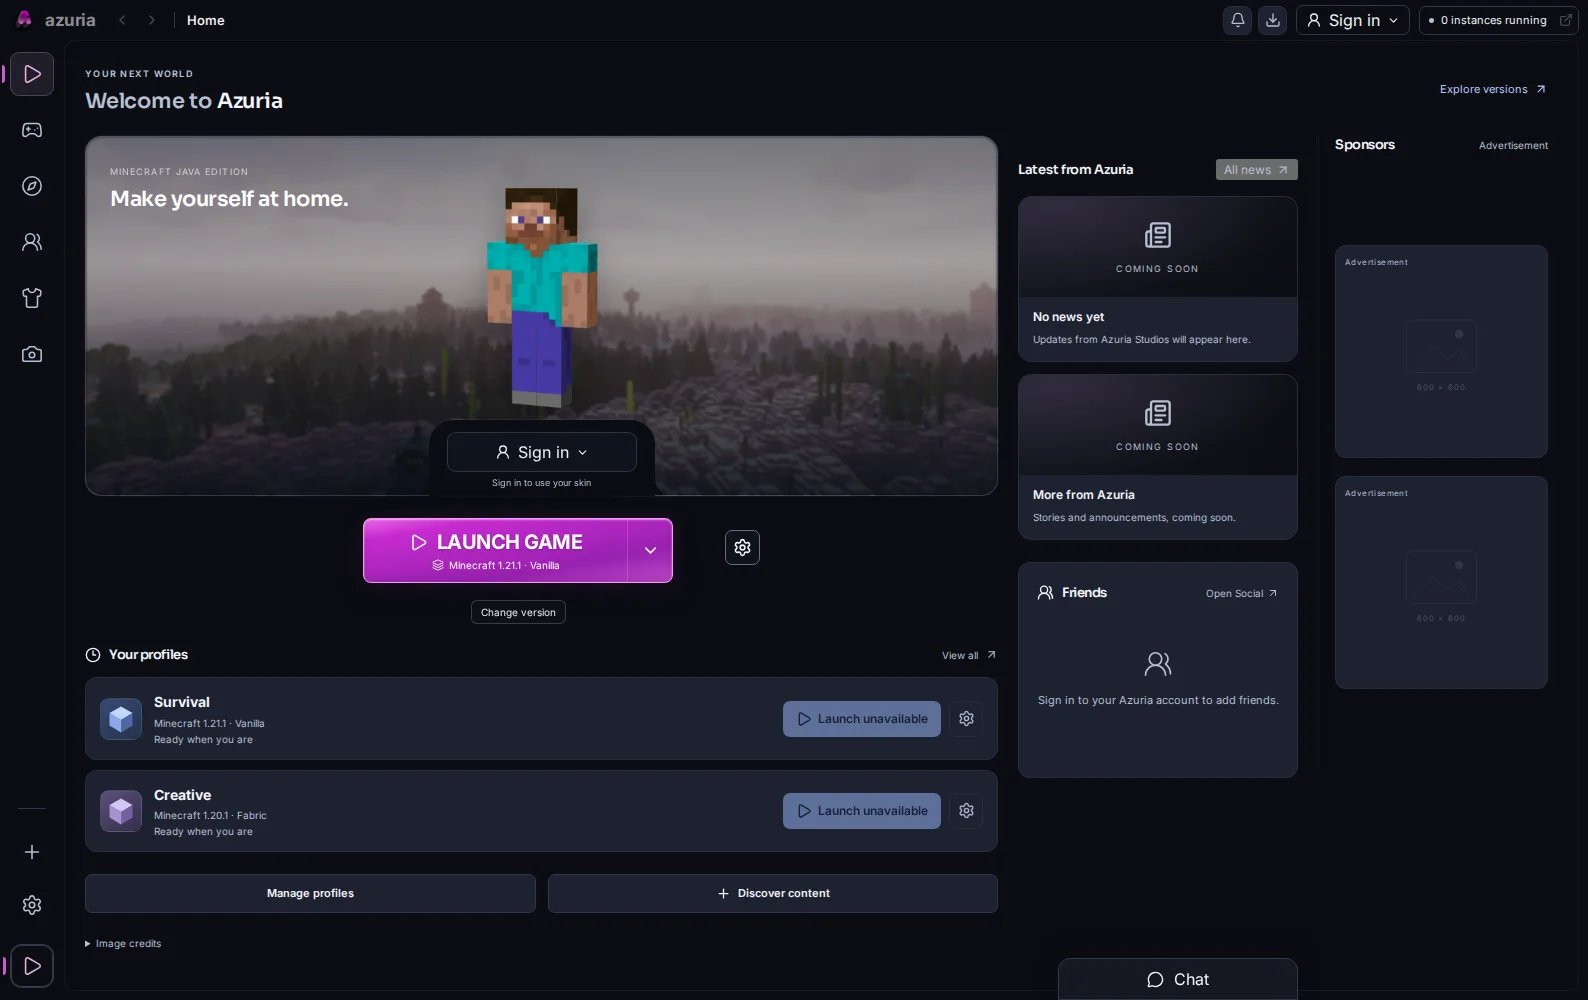
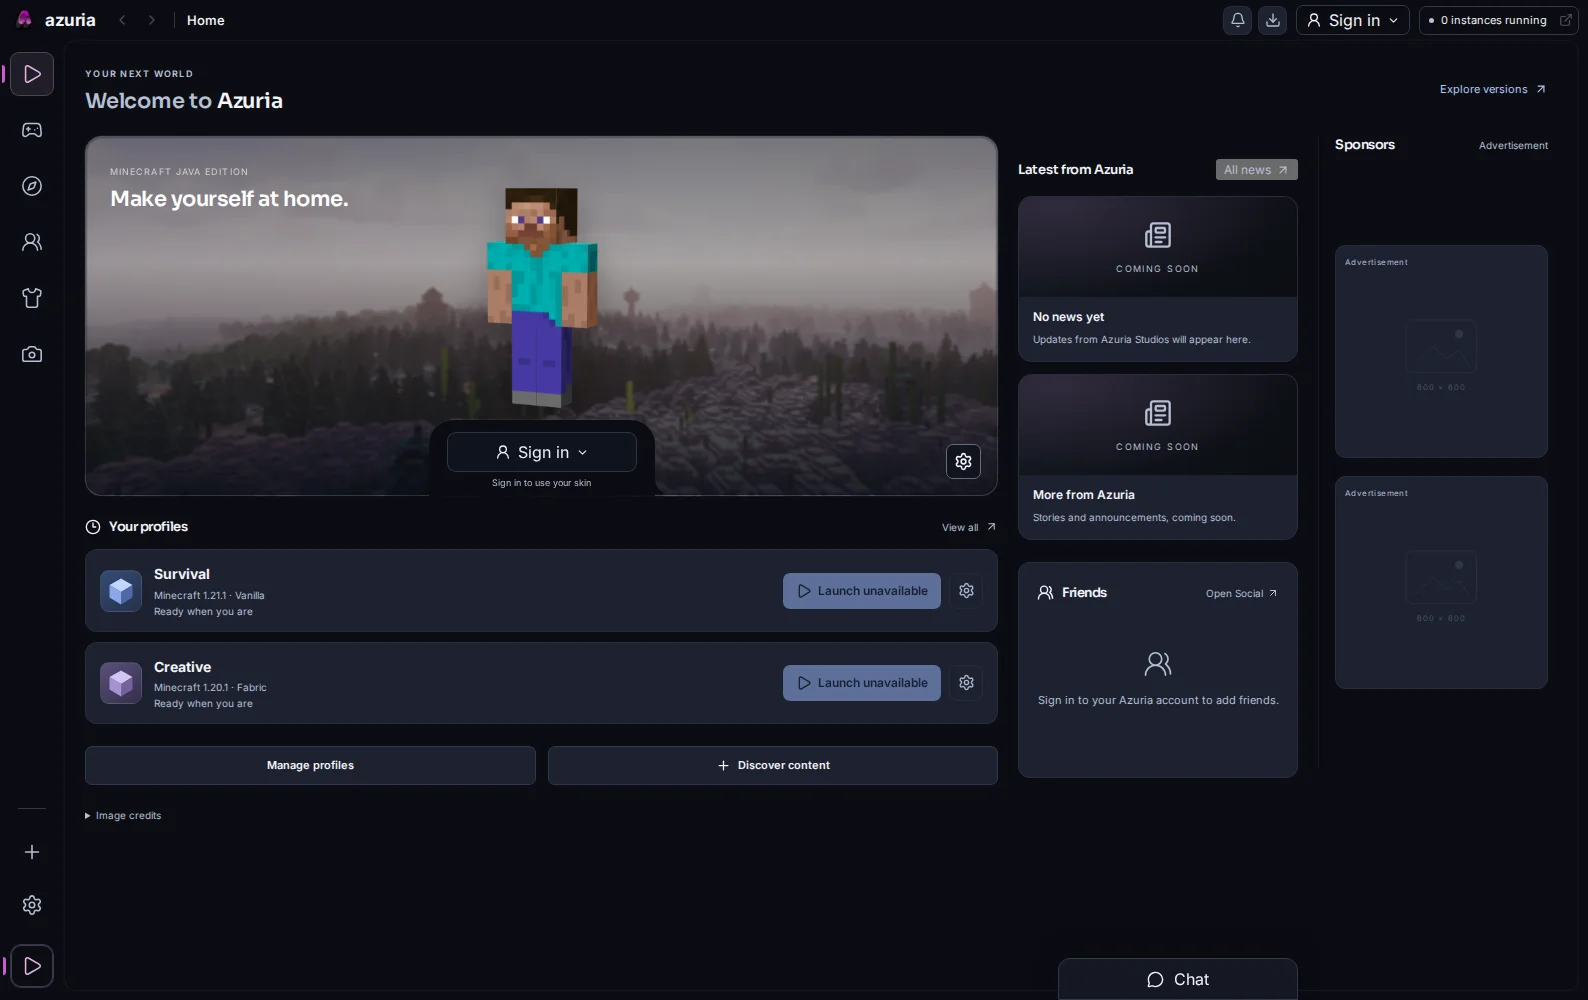
Use profile cards for Home launch controls

Changed region(s): [[0.0309, 0.496, 0.648, 0.961], [0.5863, 0.434, 0.6171, 0.465], [0.0309, 0.0, 0.0617, 0.031]]

diff --git a/apps/app-frontend/tests/e2e/home-redesign.spec.ts b/apps/app-frontend/tests/e2e/home-redesign.spec.ts
@@ -34,7 +34,7 @@ test("Home matches the launch-first design, with honest preview and no generated
     "naturalWidth",
     1600,
   );
-  await expect(page.getByRole("button", { name: /Launch game/ })).toBeEnabled();
+  await expect(page.locator(".launch-main")).toHaveCount(0);
   for (const width of [900, 1024, 1280, 1588]) {
     await page.setViewportSize({ width, height: 900 });
     expect(
@@ -49,10 +49,6 @@ test("Home matches the launch-first design, with honest preview and no generated
       path: test.info().outputPath(`home-${width}.png`),
     });
   }
-  await page.getByRole("button", { name: /Launch game/ }).click();
-  await expect(page.getByRole("alert")).toContainText(
-    "browser preview cannot launch",
-  );
   expect(
     await page.evaluate(
       () => JSON.parse(localStorage.getItem("azuria-preview-v1")!).instances,
@@ -60,59 +56,51 @@ test("Home matches the launch-first design, with honest preview and no generated
   ).toEqual([]);
   expect(errors).toEqual([]);
 });
-test("version and loader picker persists selection, restores focus and supports version browsing", async ({
+test("Home without profiles offers version browsing without a standalone launch", async ({
   page,
 }) => {
   await page.goto("/");
-  const trigger = page.getByRole("button", {
-    name: "Choose version and loader",
-  });
-  await trigger.click();
-  const dialog = page.getByRole("dialog", { name: "Choose what to play" });
-  await dialog
-    .getByRole("combobox", { name: "Home Minecraft version" })
-    .click();
-  await page
-    .getByRole("option", { name: "1.20.1release", exact: true })
-    .click();
-  await dialog.getByRole("button", { name: "Fabric", exact: true }).click();
-  await dialog.getByRole("button", { name: "Done", exact: true }).click();
-  await expect(trigger).toBeFocused();
-  await expect(page.locator(".launch-main")).toContainText(
-    "Minecraft 1.20.1 · Fabric",
-  );
-  await page.reload();
-  await expect(page.locator(".launch-main")).toContainText(
-    "Minecraft 1.20.1 · Fabric",
-  );
-  await page
-    .getByRole("link", { name: "Versions", exact: true })
-    .first()
-    .click();
   await expect(
-    page.getByRole("button", { name: "Choose Minecraft 24w14a" }),
+    page.getByRole("button", { name: "Choose version and loader" }),
   ).toHaveCount(0);
-  await page.getByLabel("Snapshots & older builds").check();
-  await page.getByRole("button", { name: "Choose Minecraft 24w14a" }).click();
-  await expect(page.locator(".launch-main")).toContainText("24w14a");
-  await page.getByRole("link", { name: "Home", exact: true }).click();
-  await page.getByRole("button", { name: "Choose version and loader" }).click();
-  await page.keyboard.press("Escape");
-  await expect(trigger).toBeFocused();
+  await page
+    .getByRole("link", { name: "Choose a version", exact: true })
+    .click();
+  await expect(page).toHaveURL(/#\/versions$/);
+  await expect(
+    page.getByRole("button", { name: "Choose Minecraft 1.21.1", exact: true }),
+  ).toBeVisible();
 });
-test("failed version catalogue gives a retry and working manual entry", async ({
+test("Home profile settings opens the chosen profile directly", async ({
   page,
 }) => {
-  await page.route("https://piston-meta.mojang.com/**", (r) => r.abort());
+  await page.addInitScript(() =>
+    localStorage.setItem(
+      "azuria-preview-v1",
+      JSON.stringify({
+        settings: { theme: "dark" },
+        instances: [
+          {
+            id: "survival",
+            name: "Survival",
+            loader: "vanilla",
+            minecraftVersion: "1.21.1",
+            memoryMb: 4096,
+            favorite: false,
+            createdAt: 1,
+          },
+        ],
+      }),
+    ),
+  );
   await page.goto("/");
-  await page.getByRole("button", { name: "Choose version and loader" }).click();
-  const dialog = page.getByRole("dialog", { name: "Choose what to play" });
-  await expect(dialog.getByRole("alert")).toContainText("Couldn’t load");
-  await dialog.getByText("Enter a version manually", { exact: true }).click();
-  await dialog.getByLabel("Minecraft version", { exact: true }).fill("1.21.1");
-  await dialog.getByRole("button", { name: "Use version" }).click();
-  await dialog.getByRole("button", { name: "Done", exact: true }).click();
-  await expect(page.locator(".launch-main")).toContainText("Minecraft 1.21.1");
+  await page
+    .getByRole("link", { name: "Settings for Survival", exact: true })
+    .click();
+  await expect(page).toHaveURL(/instances\/survival\?settings=general/);
+  await expect(
+    page.getByRole("dialog", { name: "Instance settings", exact: true }),
+  ).toBeVisible();
 });
 test("light appearance keeps log colours scoped and returns to Home cleanly", async ({
   page,
@@ -126,7 +114,7 @@ test("light appearance keeps log colours scoped and returns to Home cleanly", as
   await settings.getByRole("button", { name: "Save", exact: true }).click();
   await settings.getByRole("button", { name: "Close settings" }).click();
   await expect(page.locator("html")).toHaveCSS("color", "rgb(34, 42, 60)");
-  await expect(page.locator(".launch-main")).toBeVisible();
+  await expect(page.locator(".home-hero")).toBeVisible();
   await page
     .getByRole("link", { name: "Skins and capes", exact: true })
     .click();
@@ -185,12 +173,14 @@ test("player Home ranks actual play history and keeps account clear of launch co
     "Survival",
   );
   await page.locator(".home-profile-select").first().click();
-  await expect(page.locator(".launch-main")).toContainText("1.20.1");
+  await expect(page.locator(".home-profile-card").first()).toHaveClass(
+    /selected/,
+  );
   await expect(page.locator(".home-sponsor-rail .square-ad")).toHaveCount(2);
   for (const width of [900, 1280, 1588]) {
     await page.setViewportSize({ width, height: 960 });
     const account = await page.locator(".player-account").boundingBox();
-    const launch = await page.locator(".hero-launch-bar").boundingBox();
+    const launch = await page.locator(".home-profiles").boundingBox();
     expect(account!.y + account!.height).toBeLessThan(launch!.y);
     await page.evaluate(() => document.fonts.ready);
     await page.screenshot({

diff --git a/apps/app-frontend/tests/e2e/game.spec.ts b/apps/app-frontend/tests/e2e/game.spec.ts
@@ -837,44 +837,27 @@ test("topbar Stop reaches the native cancellation command", async ({
     .toBe(true);
 });
 
-test("Home creates one automatic setup without background preparation and reuses it", async ({
+test("Home launches the existing profile without creating another setup", async ({
   page,
 }) => {
   await setup(page);
-  await page.route("https://piston-meta.mojang.com/**", (r) =>
-    r.fulfill({ json: { versions: [{ id: "1.21.1", type: "release" }] } }),
-  );
   await page.goto("/");
-  const launch = page.locator(".launch-main");
-  await expect(launch).toBeEnabled();
-  await launch.click();
+  await expect(page.locator(".launch-main")).toHaveCount(0);
+  await page
+    .locator(".home-profile-card")
+    .getByRole("button", { name: "Play", exact: true })
+    .click();
   await expect(
-    page.getByRole("button", { name: /Cancel launch/ }),
-  ).toBeVisible();
-  const result = await page.evaluate(() => ({
-    calls: (window as any).gameCalls,
-    input: (window as any).createdInput,
-    prepare: (window as any).createdPrepare,
-  }));
-  expect(result.prepare).toBe(false);
-  expect(result.input.loader).toBe("vanilla");
-  expect(
-    result.calls.filter((c: string) => c === "create_instance"),
-  ).toHaveLength(1);
-  expect(
-    result.calls.filter((c: string) => c === "launch_instance"),
-  ).toHaveLength(1);
-  expect(
-    result.calls.filter((c: string) => c === "prepare_instance"),
-  ).toHaveLength(0);
-  await page.evaluate(() => (window as any).finishQuickGame());
-  await expect(launch).toContainText("Launch game");
-  await launch.click();
+    page
+      .locator(".home-profile-card")
+      .getByRole("button", { name: "Stop", exact: true }),
+  ).toBeEnabled();
   const calls = await page.evaluate(
     () => (window as any).gameCalls as string[],
   );
-  expect(calls.filter((c) => c === "create_instance")).toHaveLength(1);
-  expect(calls.filter((c) => c === "launch_instance")).toHaveLength(2);
+  expect(calls.filter((c) => c === "create_instance")).toHaveLength(0);
+  expect(calls.filter((c) => c === "launch_instance")).toHaveLength(1);
+  expect(calls).toContain("open_game_monitor");
 });
 
 test("task panel retains completed work and notifications without inventing downloads", async ({
@@ -1017,8 +1000,12 @@ test("launching an installed modpack returns Home with the exact profile and its
   );
   await page.getByRole("button", { name: "Launch game", exact: true }).click();
   await expect(page).toHaveURL(/#\/$/);
-  await expect(page.locator(".launch-main")).toContainText("Forest adventure");
-  await expect(page.locator(".launch-main")).toContainText("Minecraft 1.21.1");
+  await expect(page.locator(".home-profile-card")).toContainText(
+    "Forest adventure",
+  );
+  await expect(page.locator(".home-profile-card")).toContainText(
+    "Minecraft 1.21.1",
+  );
   await expect
     .poll(() =>
       page.evaluate(

diff --git a/apps/app-frontend/src/views/home.css b/apps/app-frontend/src/views/home.css
@@ -144,40 +144,6 @@
   right: 50%;
   transform: translateX(50%);
 }
-.hero-launch-bar {
-  position: absolute;
-  left: 20px;
-  right: 20px;
-  bottom: 16px;
-  z-index: 3;
-  display: flex;
-  align-items: flex-start;
-  gap: 12px;
-}
-.hero-launch-bar :deep(.quick-launch) {
-  width: 100%;
-  min-width: 0;
-}
-.hero-launch-bar :deep(.launch-main) {
-  min-height: 62px;
-  padding: 11px 16px;
-}
-.hero-launch-bar :deep(.launch-main strong) {
-  font-size: 20px;
-  font-weight: 700;
-}
-.hero-launch-bar :deep(.launch-selection) {
-  font-size: 10px;
-}
-.hero-launch-bar :deep(.quick-version-trigger) {
-  margin-top: 7px;
-  font-size: 10px;
-}
-.hero-launch-bar :deep(.hero-settings) {
-  position: relative;
-  inset: auto;
-  flex-shrink: 0;
-}
 .home-section-heading {
   display: flex;
   align-items: center;
@@ -473,13 +439,6 @@
   }
 }
 
-.hero-launch-bar :deep(.hero-settings-menu) {
-  position: relative;
-  inset: auto;
-  flex: 0 0 auto;
-  margin-top: 12px;
-}
-
 /* Home keeps profiles beneath the scene and news above Friends. */
 .home-dashboard {
   grid-template-columns: minmax(0, 1fr) 280px 230px;
@@ -550,19 +509,6 @@
 }
 .player-account small {
   color: var(--muted);
-}
-.hero-launch-bar {
-  position: relative;
-  inset: auto;
-  min-height: 90px;
-  justify-content: center;
-  align-items: flex-start;
-  padding: 0 12px;
-  gap: 12px;
-}
-.hero-launch-bar :deep(.quick-launch) {
-  width: min(100%, 390px);
-  flex: 0 1 390px;
 }
 .home-secondary {
   display: flex;

diff --git a/apps/app-frontend/src/views/HomeView.vue b/apps/app-frontend/src/views/HomeView.vue
@@ -3,7 +3,6 @@ import { computed, ref, watch, onBeforeUnmount } from "vue";
 import { Clock3, Settings, Plus, Compass, ArrowUpRight } from "@lucide/vue";
 import NewsFeed from "../components/NewsFeed.vue";
 import HeroSettingsMenu from "../components/HeroSettingsMenu.vue";
-import QuickLaunch from "../components/QuickLaunch.vue";
 import LaunchControl from "../components/LaunchControl.vue";
 import CommunitySidebar from "../components/CommunitySidebar.vue";
 import SkinModel from "../components/SkinModel.vue";
@@ -146,8 +145,8 @@ function played(id: string) {
                   : "Sign in to use your skin"
             }}</small>
           </div>
+          <HeroSettingsMenu />
         </section>
-        <div class="hero-launch-bar"><QuickLaunch /><HeroSettingsMenu /></div>
         <section class="home-profiles" aria-labelledby="home-profiles-heading">
           <div class="home-section-heading">
             <h2 id="home-profiles-heading">

diff --git a/apps/app-frontend/tests/e2e/instance.spec.ts b/apps/app-frontend/tests/e2e/instance.spec.ts
@@ -319,7 +319,7 @@ test("profile popup keeps notes and exports only portable setup preferences", as
   await expect(popup.getByLabel("Memory allocation in MB")).toBeEnabled();
 });
 
-test("Home launch arrow and hero settings route to saved setups and memory", async ({
+test("Home versions link and hero settings route to versions and memory", async ({
   page,
 }) => {
   await page.route("https://piston-meta.mojang.com/**", (r) =>
@@ -327,7 +327,7 @@ test("Home launch arrow and hero settings route to saved setups and memory", asy
   );
   await page.goto("/");
   await page
-    .getByRole("link", { name: "Open Minecraft versions", exact: true })
+    .getByRole("link", { name: "Explore versions", exact: true })
     .click();
   await expect(page).toHaveURL(/#\/versions$/);
   await page.getByRole("link", { name: "Home", exact: true }).click();

diff --git a/apps/app-frontend/tests/e2e/version-posters.spec.ts b/apps/app-frontend/tests/e2e/version-posters.spec.ts
@@ -114,9 +114,7 @@ test("poster selection stays on Versions with patch and loader controls, art and
     path: test.info().outputPath("versions-premium.png"),
   });
   await page.getByRole("link", { name: "Home", exact: true }).click();
-  await expect(page.locator(".launch-main")).toContainText(
-    "Minecraft 1.21 · Fabric",
-  );
+  await expect(page.locator(".launch-main")).toHaveCount(0);
   await expect(
     page.getByRole("link", { name: "Development information" }),
   ).toHaveCount(0);

diff --git a/docs/previews/README.md b/docs/previews/README.md
@@ -2,7 +2,7 @@
 
 Captured from the implemented Vue app at 1588 × 1000. The browser preview uses two sample local profiles; Minecraft launching is unavailable outside the Windows app. News, sponsor and Friends empty states are intentional. Steve is the labelled default preview.
 
-- `home-player.webp`: Home with 1600 × 600 scenery, an inset account button, profiles below, news above Friends and two square ad slots.
+- `home-player.webp`: Home with 1600 × 600 scenery, an inset account button, launch and settings on the profile cards below, news above Friends and two square ad slots.
 - `review-profiles.webp`: profile cards with Minecraft artwork.
 - `review-new-profile.webp`: one-page loader and version setup.
 - `review-wardrobe.webp`: unavailable cosmetics clearly marked coming soon.
